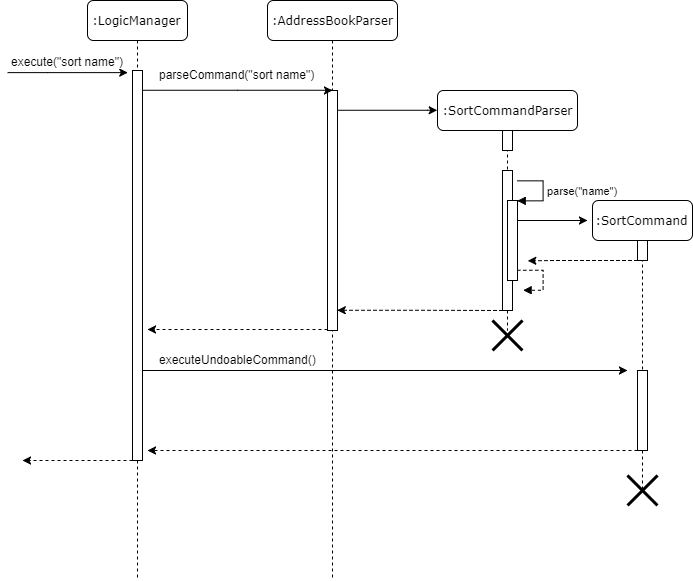
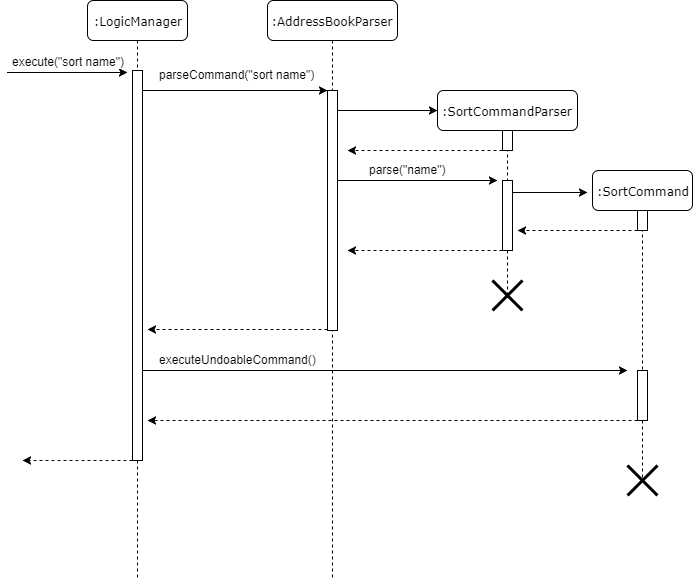
Rebuild pages at f6e002ec6a114b8b6c0fa93d37e59c8ccdc28c57

diff --git a/team/alpheus.html b/team/alpheus.html
@@ -111,7 +111,7 @@ or address. This will ensure that users type in the right <code>KEYWORD</code> t
 <h4 id="sorting-by-name"><a class="link" href="#sorting-by-name">Sorting by name</a></h4>
 <div class="paragraph">
 <p>Suppose a user wants to sort by name, the user will type <code>sort name</code> into the command box. This will then be processed by <code>LogicManager</code> which executes the command and <code>AddressBookParser</code> will
-parse the command accordingly. The sequence diagram for this scenario is shown in Figure 2 below.</p>
+parse the command accordingly. A <code>SortCommand</code> will be returned to the <code>LogicManager</code> which will then execute it. The sequence diagram for this scenario is shown in Figure 2 below.</p>
 </div>
 <div class="imageblock">
 <div class="content">
@@ -2238,7 +2238,7 @@ find Josephine, or find Blk 231, Sembawang Close 221 #02-232, S750231).<br>
 </div>
 <div id="footer">
 <div id="footer-text">
-Last updated 2017-10-21 06:58:17 +00:00
+Last updated 2017-10-21 11:16:45 +00:00
 </div>
 </div>
 </body>

diff --git a/DeveloperGuide.html b/DeveloperGuide.html
@@ -844,7 +844,7 @@ or address. This will ensure that users type in the right <code>KEYWORD</code> t
 <h4 id="sorting-by-name"><a class="link" href="#sorting-by-name">3.5.1. Sorting by name</a></h4>
 <div class="paragraph">
 <p>Suppose a user wants to sort by name, the user will type <code>sort name</code> into the command box. This will then be processed by <code>LogicManager</code> which executes the command and <code>AddressBookParser</code> will
-parse the command accordingly. The sequence diagram for this scenario is shown in Figure 2 below.</p>
+parse the command accordingly. A <code>SortCommand</code> will be returned to the <code>LogicManager</code> which will then execute it. The sequence diagram for this scenario is shown in Figure 2 below.</p>
 </div>
 <div class="imageblock">
 <div class="content">
@@ -2839,7 +2839,7 @@ distinguishable from the text</pre>
 </div>
 <div id="footer">
 <div id="footer-text">
-Last updated 2017-10-21 06:58:17 +00:00
+Last updated 2017-10-21 11:16:45 +00:00
 </div>
 </div>
 </body>

diff --git a/LearningOutcomes.html b/LearningOutcomes.html
@@ -561,7 +561,7 @@ class gives some examples of how to use <em>Equivalence Partitions</em>, <em>Bou
 </div>
 <div id="footer">
 <div id="footer-text">
-Last updated 2017-10-21 06:58:17 +00:00
+Last updated 2017-10-21 11:16:45 +00:00
 </div>
 </div>
 </body>

diff --git a/UsingGradle.html b/UsingGradle.html
@@ -261,7 +261,7 @@ See <code>build.gradle</code> &#8594; <code>allprojects</code> &#8594; <code>dep
 </div>
 <div id="footer">
 <div id="footer-text">
-Last updated 2017-10-21 06:58:17 +00:00
+Last updated 2017-10-21 11:16:45 +00:00
 </div>
 </div>
 </body>

diff --git a/team/azizi.html b/team/azizi.html
@@ -360,7 +360,7 @@ If the <code>redoStack</code> is empty, then there are no other commands left to
 </div>
 <div id="footer">
 <div id="footer-text">
-Last updated 2017-10-21 06:58:17 +00:00
+Last updated 2017-10-21 11:16:45 +00:00
 </div>
 </div>
 </body>

diff --git a/team/deepak.html b/team/deepak.html
@@ -454,7 +454,7 @@ If the <code>redoStack</code> is empty, then there are no other commands left to
 </div>
 <div id="footer">
 <div id="footer-text">
-Last updated 2017-10-21 06:58:17 +00:00
+Last updated 2017-10-21 11:16:45 +00:00
 </div>
 </div>
 </body>

diff --git a/team/johndoe.html b/team/johndoe.html
@@ -360,7 +360,7 @@ If the <code>redoStack</code> is empty, then there are no other commands left to
 </div>
 <div id="footer">
 <div id="footer-text">
-Last updated 2017-10-21 06:58:17 +00:00
+Last updated 2017-10-21 11:16:45 +00:00
 </div>
 </div>
 </body>

diff --git a/team/wyn.html b/team/wyn.html
@@ -360,7 +360,7 @@ If the <code>redoStack</code> is empty, then there are no other commands left to
 </div>
 <div id="footer">
 <div id="footer-text">
-Last updated 2017-10-21 06:58:17 +00:00
+Last updated 2017-10-21 11:16:45 +00:00
 </div>
 </div>
 </body>

diff --git a/UsingTravis.html b/UsingTravis.html
@@ -299,7 +299,7 @@ Suggested change: Remove the codacy badge from <code>README</code>.</p>
 </div>
 <div id="footer">
 <div id="footer-text">
-Last updated 2017-10-21 06:58:17 +00:00
+Last updated 2017-10-21 11:16:45 +00:00
 </div>
 </div>
 </body>

diff --git a/UsingCheckstyle.html b/UsingCheckstyle.html
@@ -103,7 +103,7 @@ Restart the IDE to complete the installation.</p>
 </div>
 <div id="footer">
 <div id="footer-text">
-Last updated 2017-10-21 06:58:17 +00:00
+Last updated 2017-10-21 11:16:45 +00:00
 </div>
 </div>
 </body>

diff --git a/UserGuide.html b/UserGuide.html
@@ -840,7 +840,7 @@ e.g.<code>hide</code> <code>1</code></p>
 </div>
 <div id="footer">
 <div id="footer-text">
-Last updated 2017-10-21 06:58:17 +00:00
+Last updated 2017-10-21 11:16:45 +00:00
 </div>
 </div>
 </body>

diff --git a/AboutUs.html b/AboutUs.html
@@ -75,7 +75,7 @@ Responsibilities: Dev Ops + Threading</p>
 </div>
 <div id="footer">
 <div id="footer-text">
-Last updated 2017-10-21 06:58:17 +00:00
+Last updated 2017-10-21 11:16:45 +00:00
 </div>
 </div>
 </body>
